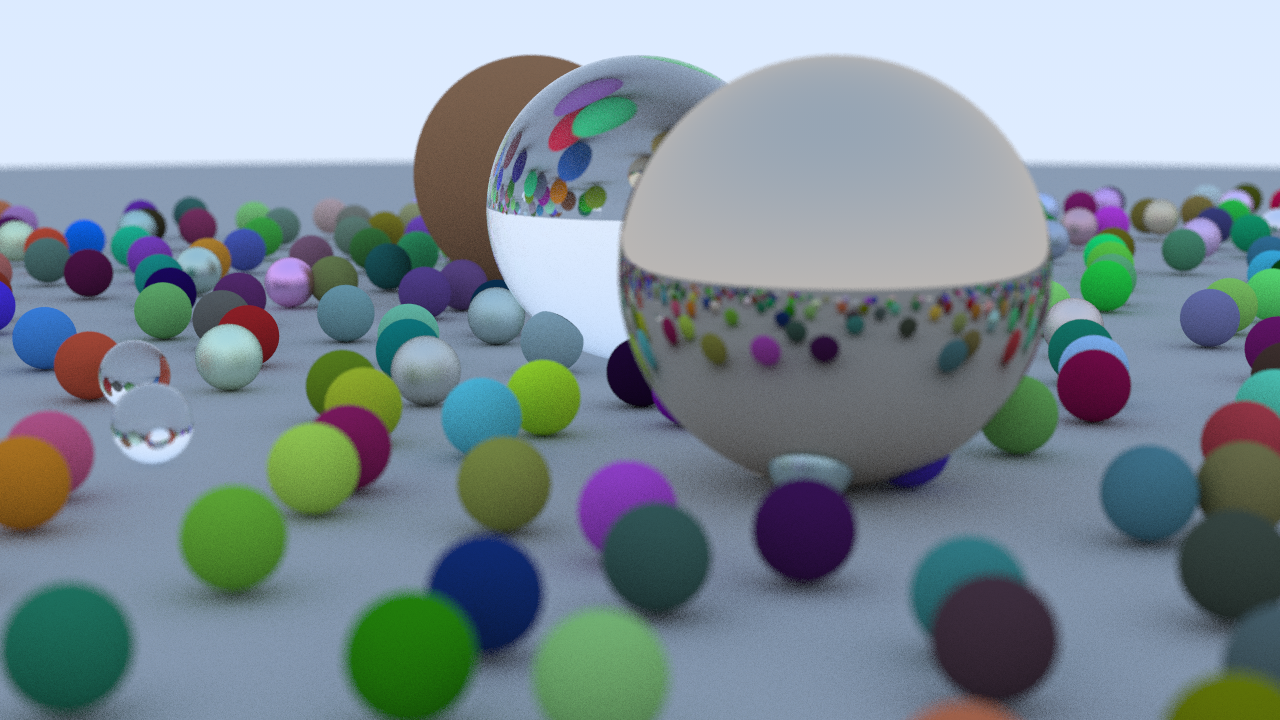
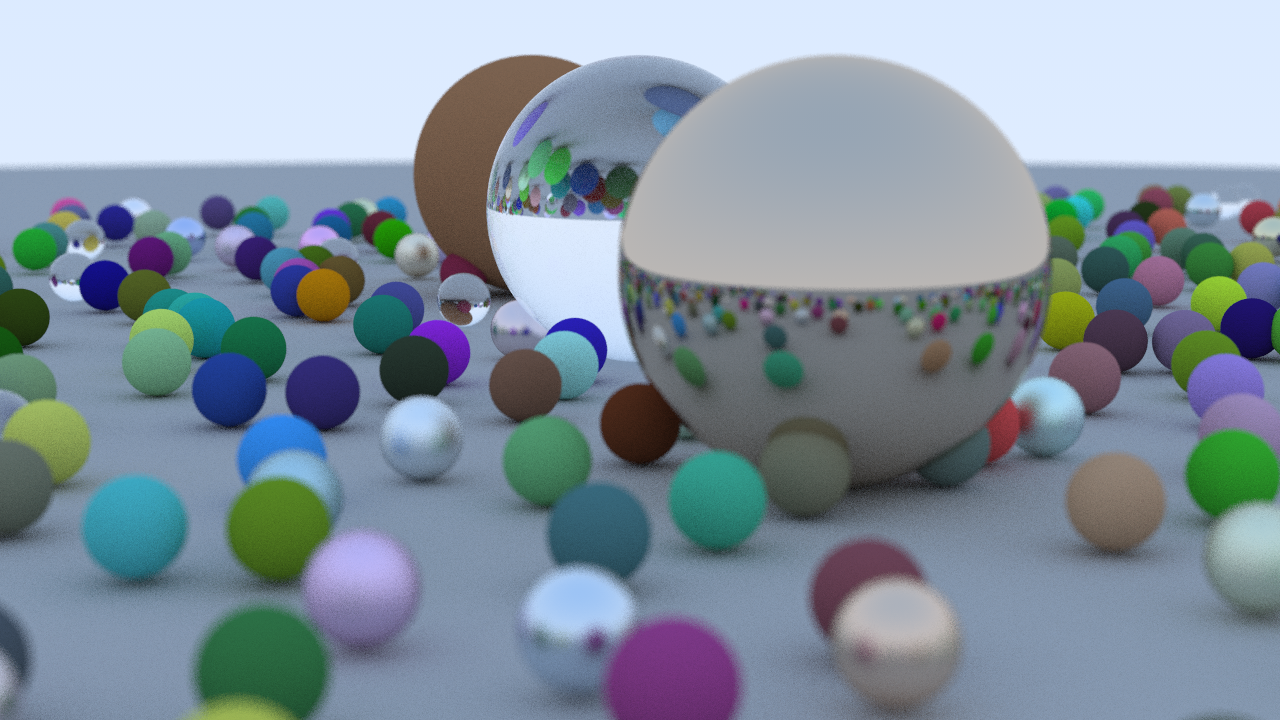
Use sequential tile threads

diff --git a/Raytracing.cpp b/Raytracing.cpp
@@ -20,6 +20,8 @@ Raytracing::Raytracing() {
 	m_samplesPerPixel = 64;
 	m_maxDepth = 12;
 	m_tileSize = 256;
+
+	m_nextAvailable = 0;
 }
 
 void Raytracing::Init() {
@@ -94,6 +96,7 @@ bool Raytracing::Run() {
 
 	bool threaded = true;
 
+	/*
 	for (int x = 0; x < m_imageWidth; x += m_tileSize) {
 		bool outOfBoundsX = x + m_tileSize <= m_imageWidth;
 
@@ -127,6 +130,33 @@ bool Raytracing::Run() {
 			m_threads[i].join();
 		}
 	}
+	*/
+
+	/*std::vector<Tile> tiles;*/
+	size_t nextAvailable = 0;
+
+	for (int x = 0; x < m_imageWidth; x += m_tileSize) {
+		bool outOfBoundsX = x + m_tileSize <= m_imageWidth;
+
+		for (int y = 0; y < m_imageHeight; y += m_tileSize) {
+			bool outOfBoundsY = y + m_tileSize <= m_imageHeight;
+
+			int maxX = outOfBoundsX ? x + m_tileSize : m_imageWidth;
+			int maxY = outOfBoundsY ? y + m_tileSize : m_imageHeight;
+
+			m_tiles.push_back({ x, y, maxX, maxY });
+		}
+	}
+
+	int max = maxThreads < m_tiles.size() ? maxThreads : m_tiles.size();
+	for (int i = 0; i < max; i++) {
+		m_threads.push_back(std::thread(&Raytracing::RenderTile, this, m_nextAvailable));
+		m_nextAvailable++;
+	}
+
+	for (size_t i = 0; i < m_threads.size(); i++) {
+		m_threads[i].join();
+	}
 
 	OrderedDithering(m_render, DitherFilter::FULLCOLOR, Threshold::ORDERED_8, 255);
 
@@ -135,6 +165,22 @@ bool Raytracing::Run() {
 	if (Image::PrintToConsole) system("pause");
 
 	return true;
+}
+
+void Raytracing::RenderTile(const size_t startIndex) {
+	Render(m_tiles[startIndex].minX, m_tiles[startIndex].minY, m_tiles[startIndex].maxX, m_tiles[startIndex].maxY);
+
+	std::mutex mtx;
+	mtx.lock();
+	size_t nextAvailable = m_nextAvailable;
+	m_nextAvailable++;
+
+	mtx.unlock();
+
+	if (nextAvailable < m_tiles.size()) {
+		RenderTile(nextAvailable);
+	}
+	
 }
 
 Raytracing::~Raytracing() {

diff --git a/Raytracing.h b/Raytracing.h
@@ -25,6 +25,16 @@ private:
 
 	void Render(const int minX, const int minY, const int maxX, const int maxY);
 
+private:
+	struct Tile {
+		int minX, minY, maxX, maxY;
+	};
+
+	std::vector<Tile> m_tiles;
+	size_t m_nextAvailable;
+
+	void RenderTile(const size_t startIndex);
+
 private: // member variables
 	std::vector<Object*> m_objects;
 	std::vector<std::thread> m_threads;
